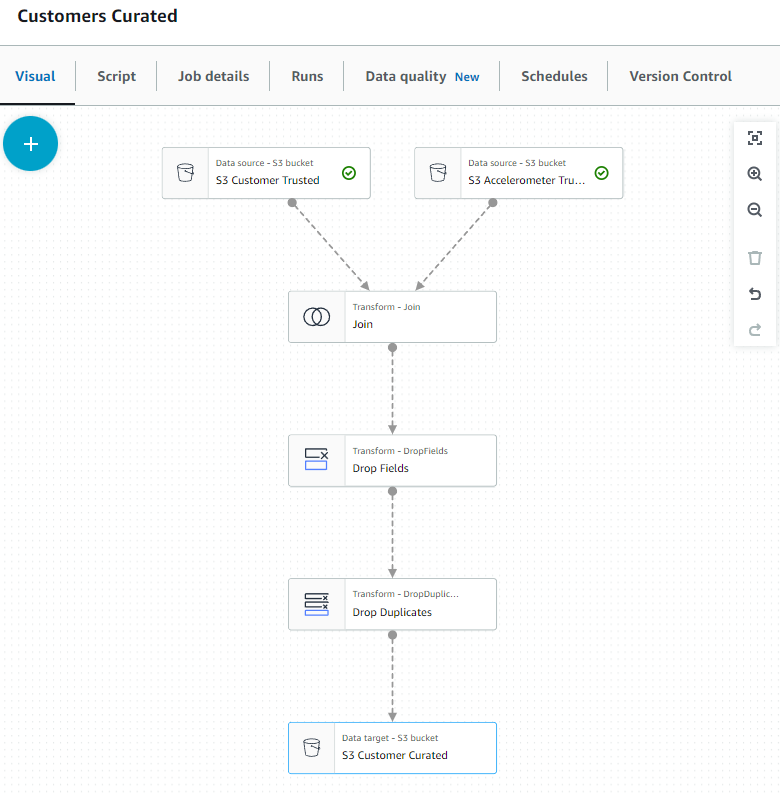
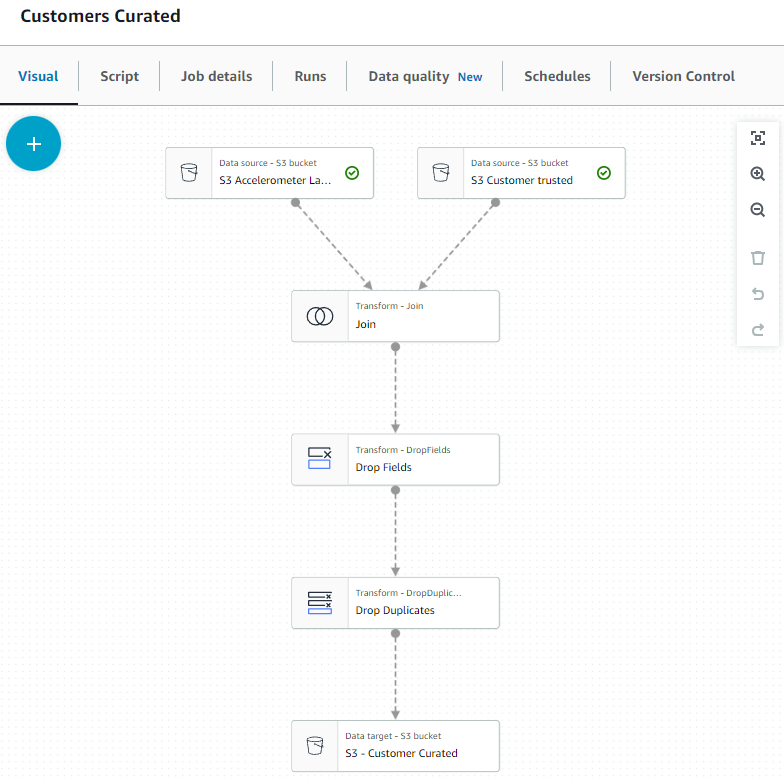
customer curated

diff --git a/customers_curated.py b/customers_curated.py
@@ -14,8 +14,22 @@ spark = glueContext.spark_session
 job = Job(glueContext)
 job.init(args["JOB_NAME"], args)
 
-# Script generated for node S3 Customer Trusted
-S3CustomerTrusted_node1 = glueContext.create_dynamic_frame.from_options(
+# Script generated for node S3 Accelerometer Landing
+S3AccelerometerLanding_node1682344783364 = (
+    glueContext.create_dynamic_frame.from_options(
+        format_options={"multiline": False},
+        connection_type="s3",
+        format="json",
+        connection_options={
+            "paths": ["s3://stedi-lake-house-aws/accelerometer/landing/"],
+            "recurse": True,
+        },
+        transformation_ctx="S3AccelerometerLanding_node1682344783364",
+    )
+)
+
+# Script generated for node S3 Customer trusted
+S3Customertrusted_node1682344781101 = glueContext.create_dynamic_frame.from_options(
     format_options={"multiline": False},
     connection_type="s3",
     format="json",
@@ -23,67 +37,42 @@ S3CustomerTrusted_node1 = glueContext.create_dynamic_frame.from_options(
         "paths": ["s3://stedi-lake-house-aws/customer/trusted/"],
         "recurse": True,
     },
-    transformation_ctx="S3CustomerTrusted_node1",
-)
-
-# Script generated for node S3 Accelerometer Trusted
-S3AccelerometerTrusted_node1682280707843 = (
-    glueContext.create_dynamic_frame.from_options(
-        format_options={"multiline": False},
-        connection_type="s3",
-        format="json",
-        connection_options={
-            "paths": ["s3://stedi-lake-house-aws/accelerometer/trusted/"],
-            "recurse": True,
-        },
-        transformation_ctx="S3AccelerometerTrusted_node1682280707843",
-    )
+    transformation_ctx="S3Customertrusted_node1682344781101",
 )
 
 # Script generated for node Join
-Join_node2 = Join.apply(
-    frame1=S3CustomerTrusted_node1,
-    frame2=S3AccelerometerTrusted_node1682280707843,
+Join_node1682344992885 = Join.apply(
+    frame1=S3Customertrusted_node1682344781101,
+    frame2=S3AccelerometerLanding_node1682344783364,
     keys1=["email"],
     keys2=["user"],
-    transformation_ctx="Join_node2",
+    transformation_ctx="Join_node1682344992885",
 )
 
 # Script generated for node Drop Fields
-DropFields_node1682280894833 = DropFields.apply(
-    frame=Join_node2,
-    paths=[
-        "user",
-        "timeStamp",
-        "x",
-        "y",
-        "z",
-        "shareWithPublicAsOfDate",
-        "registrationDate",
-        "shareWithResearchAsOfDate",
-        "lastUpdateDate",
-        "shareWithFriendsAsOfDate",
-    ],
-    transformation_ctx="DropFields_node1682280894833",
+DropFields_node1682345211535 = DropFields.apply(
+    frame=Join_node1682344992885,
+    paths=["user", "timeStamp", "x", "y", "z"],
+    transformation_ctx="DropFields_node1682345211535",
 )
 
 # Script generated for node Drop Duplicates
-DropDuplicates_node1682332766545 = DynamicFrame.fromDF(
-    DropFields_node1682280894833.toDF().dropDuplicates(),
+DropDuplicates_node1682345427505 = DynamicFrame.fromDF(
+    DropFields_node1682345211535.toDF().dropDuplicates(),
     glueContext,
-    "DropDuplicates_node1682332766545",
+    "DropDuplicates_node1682345427505",
 )
 
-# Script generated for node S3 Customer Curated
-S3CustomerCurated_node3 = glueContext.write_dynamic_frame.from_options(
-    frame=DropDuplicates_node1682332766545,
+# Script generated for node S3 - Customer Curated
+S3CustomerCurated_node1682345451122 = glueContext.write_dynamic_frame.from_options(
+    frame=DropDuplicates_node1682345427505,
     connection_type="s3",
     format="json",
     connection_options={
         "path": "s3://stedi-lake-house-aws/customer/curated/",
         "partitionKeys": [],
     },
-    transformation_ctx="S3CustomerCurated_node3",
+    transformation_ctx="S3CustomerCurated_node1682345451122",
 )
 
 job.commit()

diff --git a/README.md b/README.md
@@ -18,6 +18,20 @@ AWS that satisfies these requirements from the STEDI data scientists.
  The lakehouse solution is bult using 3 data zones (Landing, Trusted, Curated) 
 
 
+## Project Structure
+
+```
+AWS_ELT_Data_Warehouse_S3_2_Redshift_Sparkify/
+ ├── images                              Images
+ └── accelerometer_landing.sql      SQL script to create accelerometer_landing table
+ ├── accelerometer_trusted.py       Python script to create an accelerometer landing data
+ ├── customer_landing.sql           Python script to verify the connection to the AWS Redshift cluster
+ ├── customer_trusted.py            Python script to create the tables in AWS Redshift
+ ├── customers_curated.py           Python script to load data from S3 to staging, fact and dimensional tables in AWS Redshift
+ ├── machine_learning_curated.py    Python script to view an Example Output from the fact and dimensional tables on AWS Redshift
+ ├── README.md                      Documentation of the project
+ ├── step_trainer_trusted.py        Python script to delete the Redshift Cluster on AWS
+ 
 ## Project Requirements
 
 
